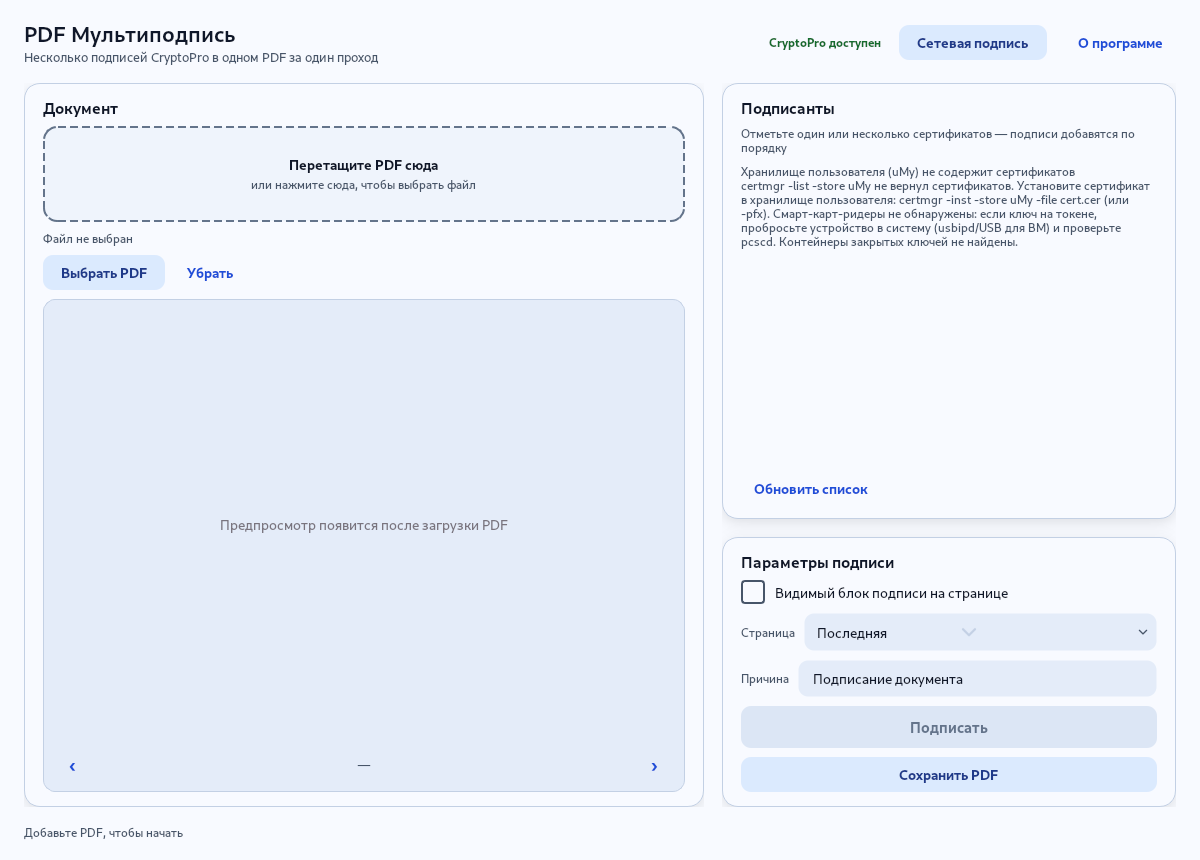
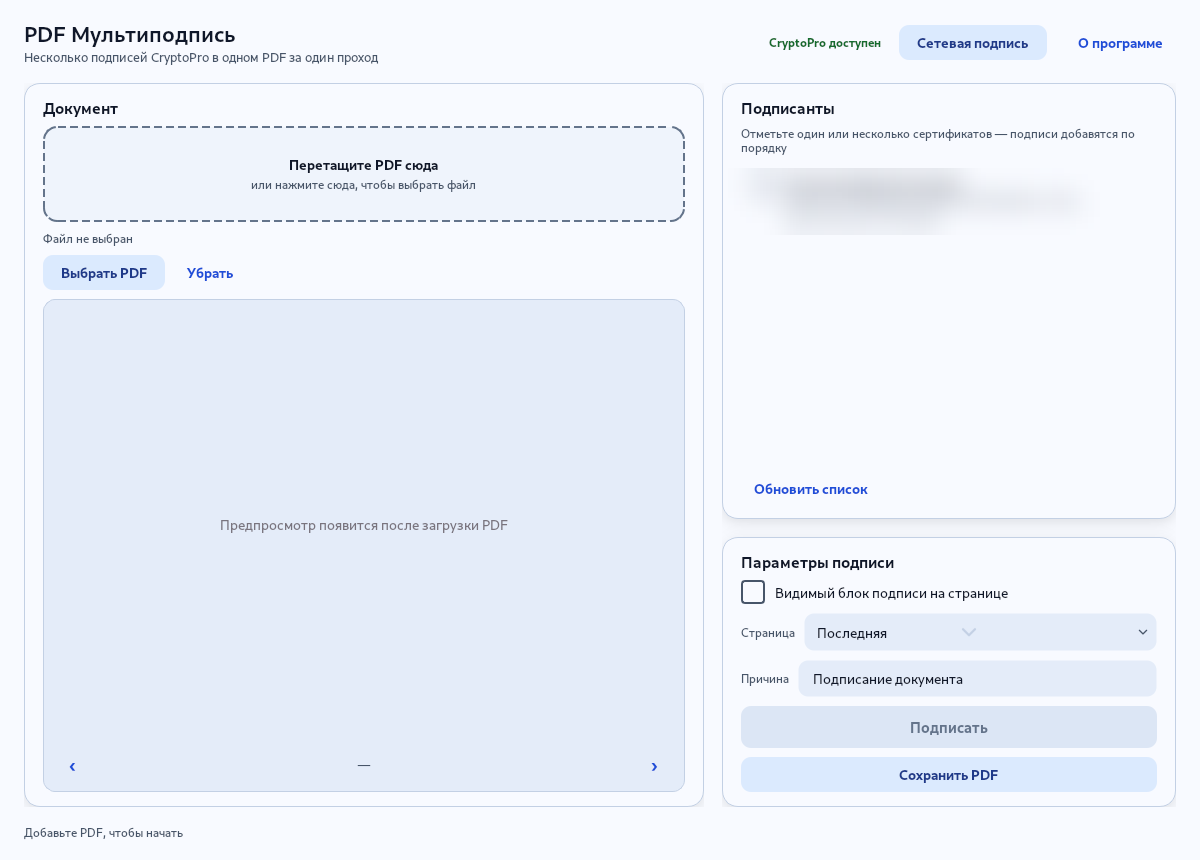
Astra: сертификаты видны при русском выводе certmgr

Changed region(s): [[0.6167, 0.1814, 0.9558, 0.3023]]

diff --git a/pdfsign/crypto_linux.py b/pdfsign/crypto_linux.py
@@ -64,6 +64,13 @@ def status() -> tuple[bool, str]:
 
 
 def _run(args: list[str], stdin_data: bytes | None = None, timeout: int = 120):
+    # CryptoPro tools are localized: on a Russian Astra they print «Субъект»,
+    # «Издатель», «SHA1 отпечаток», which the parser cannot read.  A fixed C
+    # locale gives stable English field names (the DN values stay as they are).
+    env = os.environ.copy()
+    env["LC_ALL"] = "C"
+    env["LANG"] = "C"
+    env["LANGUAGE"] = "C"
     try:
         process = subprocess.run(
             args,
@@ -71,6 +78,7 @@ def _run(args: list[str], stdin_data: bytes | None = None, timeout: int = 120):
             stdout=subprocess.PIPE,
             stderr=subprocess.STDOUT,
             timeout=timeout,
+            env=env,
         )
         return process.returncode, process.stdout.decode("utf-8", "replace")
     except subprocess.TimeoutExpired:
@@ -80,24 +88,33 @@ def _run(args: list[str], stdin_data: bytes | None = None, timeout: int = 120):
 
 
 def _parse_certmgr(output: str) -> list[CertificateInfo]:
-    """Parse ``certmgr -list`` output into certificate descriptors."""
+    """Parse ``certmgr -list`` output into certificate descriptors.
+
+    Both the English (C locale) and Russian (system locale) field names are
+    accepted, so the parser works even if CryptoPro ignores LC_ALL.
+    """
     certificates: list[CertificateInfo] = []
     for block in re.split(r"\n-{2,}\s*\n|\n\d+-{3,}", output):
-        if "Subject" not in block:
+        subject = _field_any(block, "Subject", "Субъект")
+        if not subject:
             continue
         info = CertificateInfo()
-        info.subject = _field(block, "Subject")
-        info.issuer = _field(block, "Issuer")
-        info.serial = _field(block, "Serial")
-        thumb = _field(block, "SHA1 Thumbprint")
+        info.subject = subject
+        info.issuer = _field_any(block, "Issuer", "Издатель")
+        info.serial = _field_any(block, "Serial", "Серийный номер")
+        thumb = _field_any(
+            block, "SHA1 Thumbprint", "SHA1 отпечаток", "Отпечаток SHA1"
+        )
         info.thumbprint = thumb.replace(" ", "").replace(":", "").upper()
-        container = _field(block, "Container")
+        container = _field_any(block, "Container", "Контейнер")
         info.container_name = container
-        provider = _field(block, "Provider Name")
+        provider = _field_any(block, "Provider Name", "Имя провайдера")
         info.is_crypto_pro = "crypto-pro" in provider.lower() or "crypto pro" in provider.lower()
         info.is_gost = "34.10" in provider or "gost" in provider.lower()
-        link = _field(block, "PrivateKey Link")
-        info.has_private_key = link.lower().startswith("yes") or bool(container)
+        link = _field_any(block, "PrivateKey Link", "Ссылка на ключ")
+        info.has_private_key = (
+            link.lower().startswith(("yes", "есть")) or bool(container)
+        )
         if not thumb:
             continue
         info.sign_capable = info.has_private_key and info.is_crypto_pro and info.is_gost
@@ -221,17 +238,38 @@ def _field(block: str, name: str) -> str:
     return match.group(1).strip() if match else ""
 
 
+def _field_any(block: str, *names: str) -> str:
+    """First non-empty field among English/Russian aliases."""
+    for name in names:
+        value = _field(block, name)
+        if value:
+            return value
+    return ""
+
+
 def _validity(block: str) -> tuple[dt.datetime | None, dt.datetime | None]:
-    def parse(label: str) -> dt.datetime | None:
-        raw = _field(block, label)
-        for fmt in ("%m/%d/%Y %H:%M:%S UTC", "%d.%m.%Y %H:%M:%S", "%d.%m.%Y", "%Y-%m-%d %H:%M:%S"):
+    def parse(label: str, *aliases: str) -> dt.datetime | None:
+        raw = _field_any(block, label, *aliases)
+        for fmt in (
+            # CryptoPro prints dates as dd/mm/yyyy in both C and Russian locales
+            "%d/%m/%Y %H:%M:%S UTC",
+            "%d/%m/%Y %H:%M:%S",
+            "%d/%m/%Y",
+            "%d.%m.%Y %H:%M:%S",
+            "%d.%m.%Y",
+            "%Y-%m-%d %H:%M:%S",
+            "%m/%d/%Y %H:%M:%S UTC",
+        ):
             try:
                 return dt.datetime.strptime(raw, fmt)
             except ValueError:
                 continue
         return None
 
-    return parse("Not valid before"), parse("Not valid after")
+    return (
+        parse("Not valid before", "Выдан", "Действителен с"),
+        parse("Not valid after", "Истекает", "Действителен до"),
+    )
 
 
 def sign_detached(

diff --git a/tests/test_crypto_linux.py b/tests/test_crypto_linux.py
@@ -1,0 +1,86 @@
+"""Offline parser test for localized CryptoPro ``certmgr`` output.
+
+On a Russian Astra certmgr prints «Субъект», «Издатель», «SHA1 отпечаток»;
+the parser must handle both that and the C-locale English output.  The dates
+CryptoPro prints are dd/mm/yyyy regardless of locale.
+
+Run with:  python tests/test_crypto_linux.py
+"""
+from __future__ import annotations
+
+import pathlib
+import sys
+
+ROOT = pathlib.Path(__file__).resolve().parent.parent
+sys.path.insert(0, str(ROOT))
+sys.path.insert(0, str(ROOT / "vendor"))
+
+from pdfsign import crypto_linux  # noqa: E402
+
+RUSSIAN = '''
+1-------
+Издатель            : ИНН ЮЛ=7708410783, C=RU, CN="ППК ""Роскадастр"""
+Субъект             : ИНН=244800396938, G=Юрий Алексеевич, SN=Трепачев, CN=Трепачев Юрий Алексеевич
+Серийный номер      : 0x0227E12D00AFB37A80429F830A2CC08466
+SHA1 отпечаток      : b3717f612b97ffbe274854ba02f1a89ae7ec4a1a
+Алгоритм откр. кл.  : ГОСТ Р 34.10-2012 256 бит (512 бит)
+Выдан               : 10/12/2025 02:37:03 UTC
+Истекает            : 10/03/2027 02:47:03 UTC
+Ссылка на ключ      : Есть
+Контейнер           : SCARD\\JACARTA_4E46000630543932\\cc00\\C4AA
+Имя провайдера      : Crypto-Pro GOST R 34.10-2012 KC1 CSP
+=============================================================================
+'''
+
+ENGLISH = '''
+1-------
+Issuer              : INN=7708410783, C=RU, CN="PPK Roskadastr"
+Subject             : INN=244800396938, G=Yuriy Alekseevich, SN=Trepachev, CN=Trepachev Yuriy Alekseevich
+Serial              : 0x0227E12D00AFB37A80429F830A2CC08466
+SHA1 Thumbprint     : b3717f612b97ffbe274854ba02f1a89ae7ec4a1a
+Not valid before    : 10/12/2025 02:37:03 UTC
+Not valid after     : 10/03/2027 02:47:03 UTC
+PrivateKey Link     : Yes
+Container           : SCARD\\JACARTA_4E46000630543932\\cc00\\C4AA
+Provider Name       : Crypto-Pro GOST R 34.10-2012 KC1 CSP
+=============================================================================
+'''
+
+
+def check_parse(label: str, text: str, failures: list[str]) -> None:
+    certificates = crypto_linux._parse_certmgr(text)
+    if len(certificates) != 1:
+        failures.append(f"{label}: ожидался 1 сертификат, получено {len(certificates)}")
+        return
+    cert = certificates[0]
+    if cert.thumbprint != "B3717F612B97FFBE274854BA02F1A89AE7EC4A1A":
+        failures.append(f"{label}: неверный отпечаток {cert.thumbprint!r}")
+    if not cert.sign_capable:
+        failures.append(f"{label}: сертификат должен быть пригоден для подписи")
+    if not cert.is_valid_now:
+        failures.append(f"{label}: сертификат должен быть действующим")
+    if cert.not_before is None or cert.not_before.strftime("%d.%m.%Y %H:%M") != "10.12.2025 02:37":
+        failures.append(f"{label}: неверная дата начала {cert.not_before}")
+    if cert.not_after is None or cert.not_after.strftime("%d.%m.%Y %H:%M") != "10.03.2027 02:47":
+        failures.append(f"{label}: неверная дата окончания {cert.not_after}")
+    if not cert.container_name.startswith("SCARD\\JACARTA"):
+        failures.append(f"{label}: не найден контейнер {cert.container_name!r}")
+
+
+def main() -> int:
+    failures: list[str] = []
+    check_parse("русский вывод", RUSSIAN, failures)
+    check_parse("английский вывод", ENGLISH, failures)
+    if crypto_linux._parse_certmgr("") != []:
+        failures.append("пустой вывод должен давать пустой список")
+    if failures:
+        print("FAILED")
+        for failure in failures:
+            print("  -", failure)
+        return 1
+    print("OK: certmgr разбирается в русской и английской локали, даты dd/mm/yyyy")
+    return 0
+
+
+if __name__ == "__main__":
+    raise SystemExit(main())

diff --git a/packaging/blur_docs.py b/packaging/blur_docs.py
@@ -31,6 +31,9 @@ REGIONS: dict[str, list[tuple[int, int, int, int]]] = {
     "session-join.png": [
         (48, 308, 710, 448),      # certificate rows (name, org, validity)
     ],
+    "astra-ui.png": [
+        (728, 168, 1172, 235),    # certificate row on Astra
+    ],
     "signature-block.png": [
         (883, 608, 1172, 890),    # both visible signature stamps on the page
     ],

diff --git a/packaging/release-notes-1.1.0.md b/packaging/release-notes-1.1.0.md
@@ -46,7 +46,7 @@ PDF Мультиподпись 1.1.0 — подпись PDF нескольким
 - Проверка подписи: CMS без атрибута `messageDigest` больше не считается
   валидной — выполняется проверка через CryptoPro.
 - Код сессии — только 6 цифр (его проще продиктовать); если участник не указал порт, подставляется 8443 автоматически.
-- Linux: сертификаты ищутся в `uMy`, затем в контейнерах закрытых ключей; при пустом списке показывается диагностика (нет ридеров, контейнеры без установленного сертификата, команды `certmgr`).
+- Linux: сертификаты ищутся в `uMy`, затем в контейнерах закрытых ключей; при пустом списке показывается диагностика (нет ридеров, контейнеры без установленного сертификата, команды `certmgr`). **Исправлен разбор русского вывода `certmgr`** («Субъект», «Издатель», «SHA1 отпечаток»): на русской Astra сертификат с токена JaCarta теперь виден в списке. Даты читаются как `дд/мм/гггг`, утилиты CryptoPro запускаются с `LC_ALL=C`.
 - Исправлено падение при закрытии приложения после подписи (живые COM-объекты CryptoPro при завершении интерпретатора).
 - Интерфейс: радиокнопки — круглые индикаторы с заливкой внутри в выбранном состоянии (в том числе в собранной версии), у выпадающих списков появилась стрелка вниз, неактивный список явно различим (пунктирная рамка, блёклая стрелка).
 - В списке «Страница штампа» добавлен пункт «Все страницы» — штамп ставится на каждую страницу документа.
@@ -88,9 +88,9 @@ prepare/commit), закрытый ключ не покидает его комп
 ## Контрольные суммы
 
 ```
-SHA256  PDF-Multisign-1.1.0-win64.msi       128014bafe604f8ea967e2e5867dfa79bca1913b4123d13e7ac8eb5b31849c89
-SHA256  PDF-Multisign.exe                   7fc4dbbca50829fa984839dc5bb03b88a57efb767211f2a2e208576a62faa4f5
-SHA256  pdf-multisign_1.1.0_amd64.deb       dab46bc9ec1f697f9b2f3431471c141cce1771588be6113c803d470132e3686c
+SHA256  PDF-Multisign-1.1.0-win64.msi       9a642fd6c11710e831fdd36d22529a7a9a9b3cf76782ddf8b4dedc76575eea65
+SHA256  PDF-Multisign.exe                   36e3a48c9da0ad15906386e864018e4b8b7d28ef82bfc1318e9dbdbf8a320ffe
+SHA256  pdf-multisign_1.1.0_amd64.deb       2ada1523c0da13e4f3d3168d794bf39dd6efbcf839183139d5dbe46412a87e01
 ```
 
 Лицензия кода — MIT. Исходники и описание: https://github.com/Tripswarlock/pdf-multisign

diff --git a/README.md b/README.md
@@ -223,6 +223,7 @@ gostcrypto), поэтому установка Python-пакетов не тре
 ```bat
 python tests\check_structure.py
 python tests\test_network.py
+python tests\test_crypto_linux.py
 ```
 
 `check_structure` не требует токена: он подменяет криптопровайдер заглушкой и
@@ -233,7 +234,9 @@ python tests\test_network.py
 участнику в чужой подписи и отклонение CMS с неверным хешем; отдельно
 проверяются перестановка участников, строгая очередь, подпись организатора,
 алгоритмы дайджеста (Стрибог-256/512, SHA-256) и удаление отключившихся
-участников.
+участников. `test_crypto_linux` проверяет разбор вывода `certmgr` в русской и
+английской локали (поля «Субъект»/«Издатель»/«SHA1 отпечаток» и даты
+`дд/мм/гггг`).
 
 Живая проверка на Windows (CryptoPro CSP 5.0, GOST R 34.10-2012):
 
@@ -247,6 +250,11 @@ python tests\test_network.py
 - `.deb` устанавливается через `dpkg -i`, приложение запускается и рисует
   интерфейс (скриншот выше получен на Astra);
 - `pdfsign.crypto` определяет `cryptcp` и `certmgr` в `/opt/cprocsp/bin/amd64`;
+- **сертификат с токена JaCarta виден в списке**: `certmgr` на русской Astra
+  печатает «Субъект», «Издатель», «SHA1 отпечаток», «Контейнер»; парсер
+  понимает и русские, и английские названия полей, а даты читает как
+  `дд/мм/гггг` (CryptoPro печатает их так в любой локали). Утилиты
+  запускаются с `LC_ALL=C`, поэтому вывод стабилен;
 - CMS, созданная на Windows, проверяется на Linux: валидная — «верна»,
   изменённый документ — «не совпадает» (`tests/astra_verify_test.py`);
 - пустое хранилище сертификатов обрабатывается как пустой список, а не ошибка.
